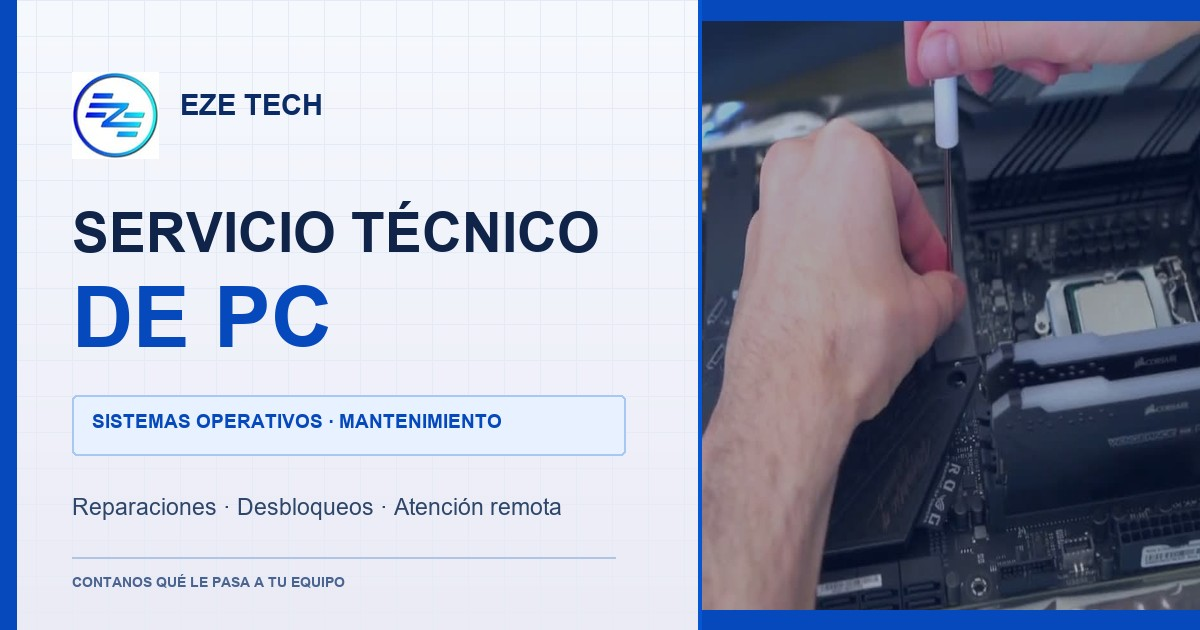
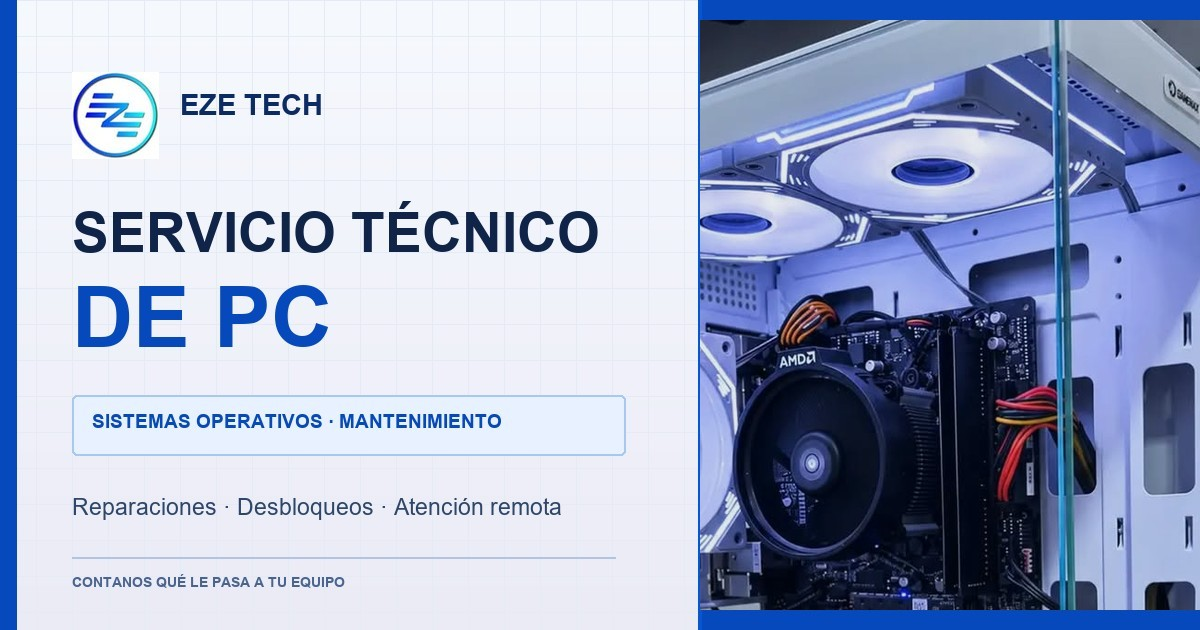
refine(demoezetech): usar foto real en imagen OG

diff --git a/demoezetech/CREDITS.md b/demoezetech/CREDITS.md
@@ -4,5 +4,5 @@
 - Perfil, isotipo y bio (servicio técnico de PC, optimización y mantenimiento, atención presencial y remota): [Instagram de Eze Tech](https://www.instagram.com/eze.tech.st/). El isotipo se obtuvo de la imagen pública del perfil, de 100 × 100 px.
 - Instalación de programas, configuración de sistemas operativos y actualización de drivers: [publicación de presentación](https://www.instagram.com/eze.tech.st/p/DWSv9JVjahq/).
 - Foto real del equipo: [publicación sobre mantenimiento](https://www.instagram.com/eze.tech.st/p/DdEwEXqROk5/).
-- Video ilustrativo del hero y fotograma usado para el póster y la imagen OG: [Pexels, video 11537350](https://www.pexels.com/video/close-up-of-a-person-building-a-pc-11537350/).
+- Video ilustrativo del hero y fotograma usado para el póster: [Pexels, video 11537350](https://www.pexels.com/video/close-up-of-a-person-building-a-pc-11537350/). La imagen OG combina el isotipo y la foto real del perfil de Eze Tech.
 - No se publicó una zona, dirección, horario, precio ni foto del taller porque no estaban confirmados.
